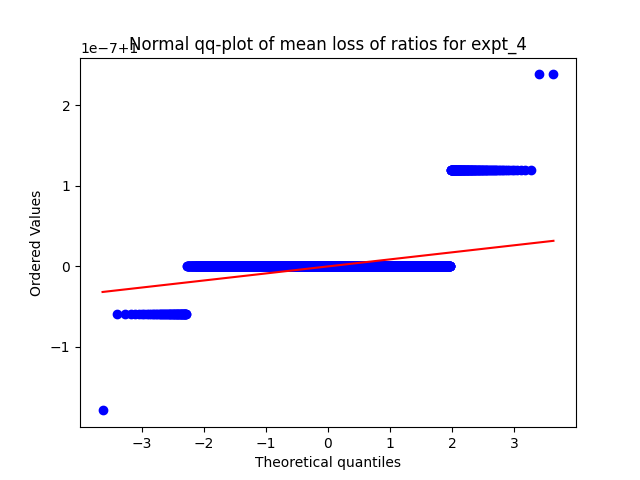
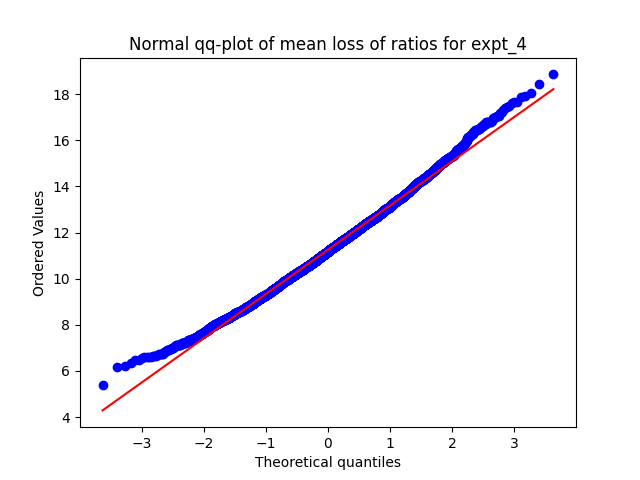
modified:   adversarial-points/perturbed-mean-entropy-hist_4.png modified:   adversarial-points/perturbed-mean-entropy-hist_4_fair.png

diff --git a/myapp2/adversarial_sample_fair.py b/myapp2/adversarial_sample_fair.py
@@ -61,18 +61,18 @@ graph = cl.Classifier(init_graph, utils.unprotected_direction(x_unprotected_trai
 
 
 
-def sample_perturbation(data_point, regularizer = 1e2, learning_rate = 5e-2, num_steps = 200):
+def sample_perturbation(data_point, regularizer = 1e0, learning_rate = 5e-2, num_steps = 200):
     x, y = data_point
     x = tf.reshape(x, (1, -1))
     y = tf.reshape(y, (1, -1))
     x_start = x
-    x += tf.cast(np.random.normal(size=(1, 39)), dtype = tf.float32)*1e-9
+    #x += tf.cast(np.random.normal(size=(1, 39)), dtype = tf.float32)*1e-9
     for _ in range(num_steps):
         with tf.GradientTape() as g:
             g.watch(x)
             prob = graph(utils.unprotected_direction(x, sensetive_directions))
             perturb = utils.unprotected_direction(x-x_start, sensetive_directions)
-            loss = utils.EntropyLoss(y, prob) - regularizer * tf.norm(perturb)
+            loss = utils.EntropyLoss(y, prob) - regularizer * tf.norm(perturb)**2
 
         gradient = g.gradient(loss, x)
         x = x + learning_rate * utils.protected_direction(gradient, sensetive_directions)
@@ -95,7 +95,7 @@ end_time = time.time()
 perturbed_test_samples = np.array(perturbed_test_samples)
 
 
-expt = '_4_fair'
+expt = '_3_fair'
 filename = f'outcome/perturbed_loss{expt}.npy'
 
 

diff --git a/myapp2/adversarial_sample.py b/myapp2/adversarial_sample.py
@@ -62,18 +62,18 @@ graph = cl.Classifier(init_graph, x_unprotected_train, y_train, num_steps = 1000
 
 
 
-def sample_perturbation(data_point, regularizer = 1e2, learning_rate = 5e-2, num_steps = 200):
+def sample_perturbation(data_point, regularizer = 1e0, learning_rate = 5e-2, num_steps = 200):
     x, y = data_point
     x = tf.reshape(x, (1, -1))
     y = tf.reshape(y, (1, -1))
     x_start = x
-    x += tf.cast(np.random.normal(size=(1, 39)), dtype = tf.float32)*1e-9
+    #x += tf.cast(np.random.normal(size=(1, 39)), dtype = tf.float32)*1e-9
     for _ in range(num_steps):
         with tf.GradientTape() as g:
             g.watch(x)
             prob = graph(x)
             perturb = utils.unprotected_direction(x-x_start, sensetive_directions)
-            loss = utils.EntropyLoss(y, prob)  - regularizer * tf.norm(perturb)
+            loss = utils.EntropyLoss(y, prob)  - regularizer * tf.norm(perturb)**2
 
         gradient = g.gradient(loss, x)
         x = x + learning_rate * utils.protected_direction(gradient, sensetive_directions)
@@ -94,7 +94,7 @@ end_time = time.time()
 perturbed_test_samples = np.array(perturbed_test_samples)
 
 
-expt = '_4'
+expt = '_3'
 filename = f'outcome/perturbed_loss{expt}.npy'
 
 
